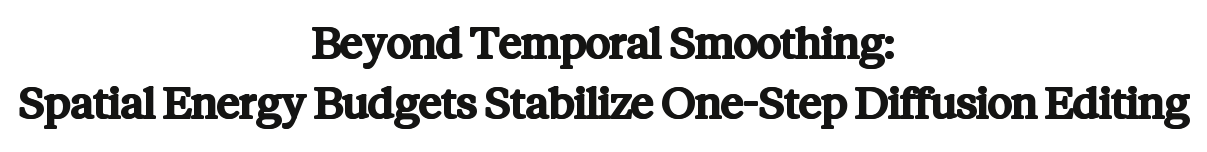
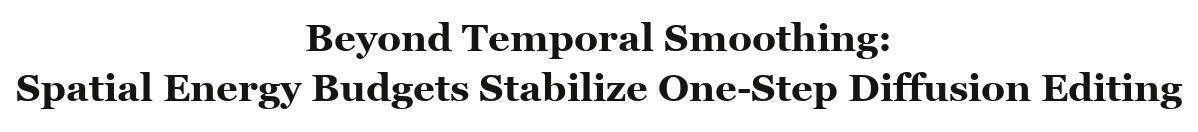
Title in Georgia Bold

Changed region(s): [[0.0, 0.5455, 0.9883, 0.8485], [0.2471, 0.1515, 0.7412, 0.4545]]

diff --git a/README.md b/README.md
@@ -1,6 +1,6 @@
 <div align="center">
 
-# <img src="assets/title.png?v=4" alt="Beyond Temporal Smoothing: Spatial Energy Budgets Stabilize One-Step Diffusion Editing" width="100%">
+# <img src="assets/title.png?v=5" alt="Beyond Temporal Smoothing: Spatial Energy Budgets Stabilize One-Step Diffusion Editing" width="100%">
 
 **[Shengxiao Zhou](mailto:shengxiao.zhou@njust.edu.cn)<sup>1</sup> · [Lei Luo](mailto:cslluo@njust.edu.cn)<sup>1,*</sup> · [Jian Yang](mailto:csjyang@nankai.edu.cn)<sup>2</sup>**
 
